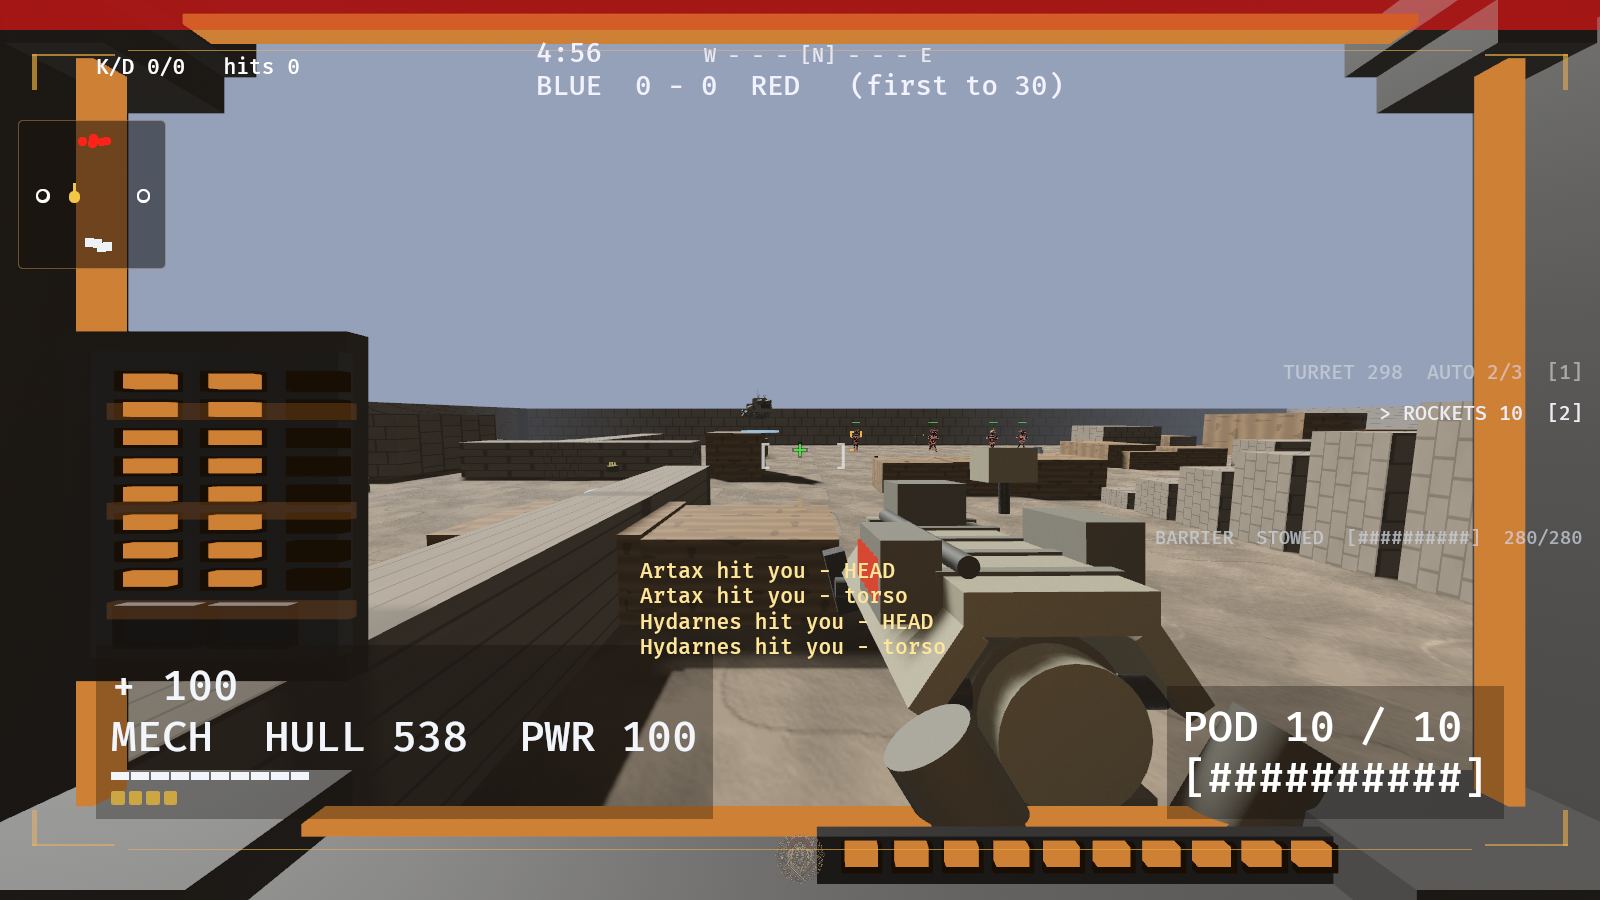
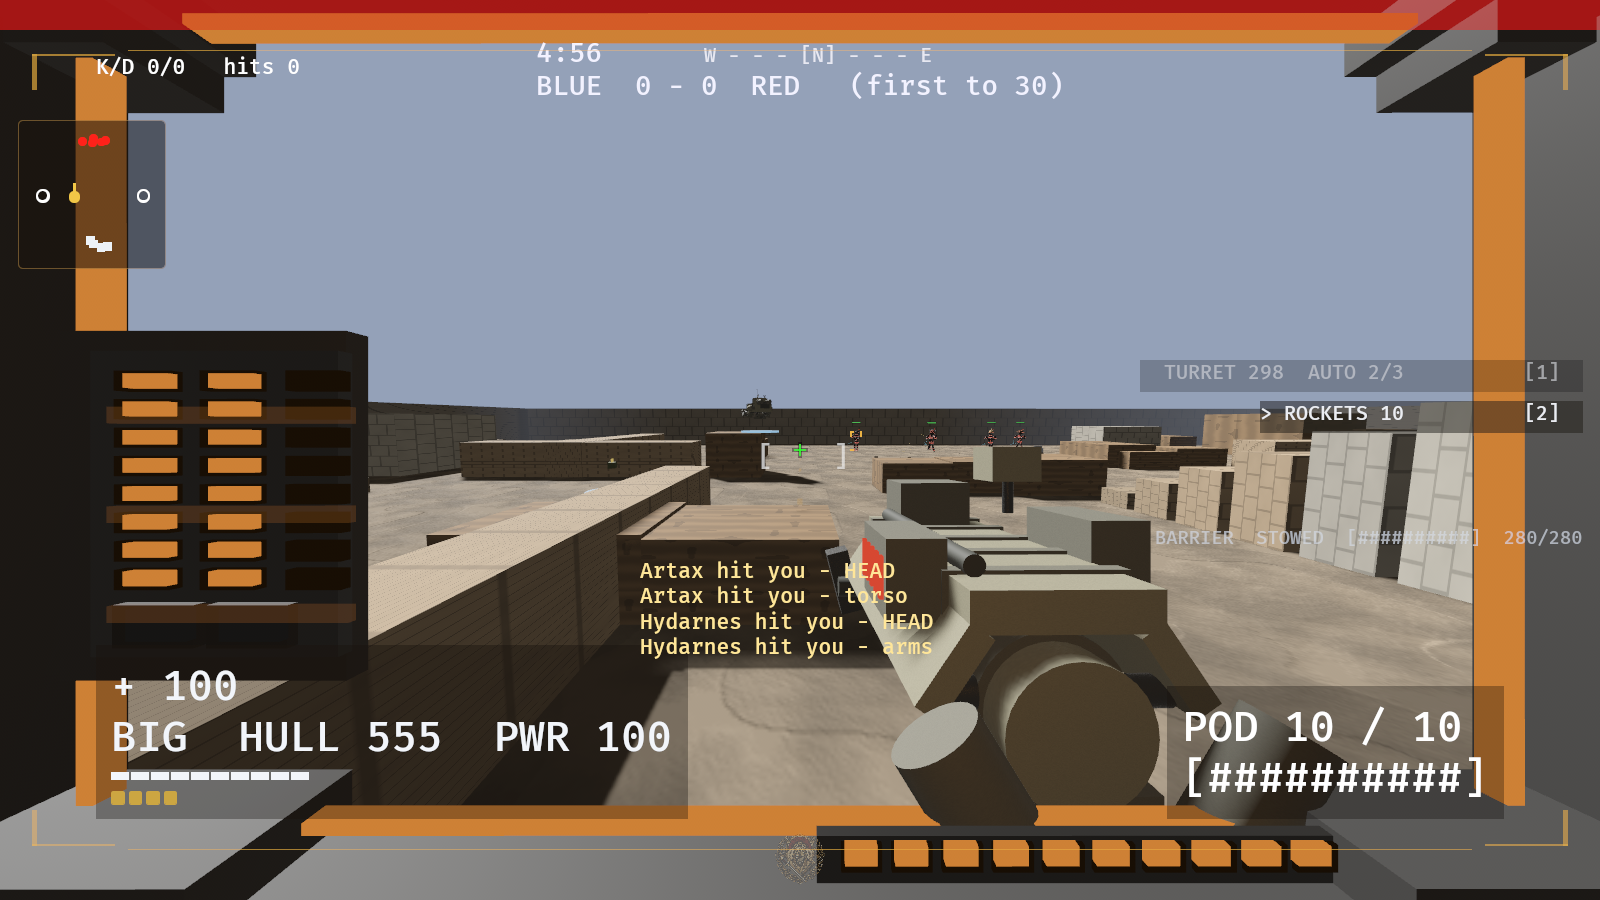
A slot is one line: the fixed-width tile was the wrong lever
Three captures to get one widget right, and the sequence is the
lesson. The slot tiles shipped at a fixed 258 px, which fitted every
infantry row and folded "[1]" onto a second line inside a mech,
because a hull mount's label carries a name, a count AND a fire mode
("TURRET 298  AUTO 2/3"). Widening to 310 moved the fold without
removing it - the tell that width was not the problem. Adding
`no_wrap` stopped the fold and started running the row off the RIGHT
edge of the screen instead, because the text lays out inside the box
and the box is pinned to the right margin.

The tile sizes to its content now. Anchored right, it grows leftward
into empty sky, and nothing can be clipped or folded whatever a future
mount decides to call itself. The infantry rows still read as a column
because the grammar pads its columns in a monospaced font.

Captured: `mech_fp` shows "> TURRET 298  AUTO 2/3 [1]" whole and on
one line, and the pilot's vitals read "BIG  HULL 600  PWR 100" - the
chassis name coming from the sim's `chassis_name()`, which is what a
Royal will say ROYAL in.

`grenade_hold` final frames: the frag whole and readable at rest with
its ribs, bands, fuse cap, spoon and pin ring; the wind at 14 m and at
MAX with the assembly in frame at both, no wedge and no clipping; the
molotov an unmistakable bottle; and the four slots reading M4A1
30/120 [1], Glock 17 17/68 [2], AWM 5/10 [3], SHIELD x1 [4].

418 passing.

diff --git a/engine/crates/jk_tdm/src/main.rs b/engine/crates/jk_tdm/src/main.rs
@@ -15535,14 +15535,34 @@ fn setup(
                 ..default()
             },
             TextColor(Color::srgba(0.92, 0.93, 0.95, 0.4)),
+            // A SLOT IS ONE LINE. Two captures went into learning that a
+            // fixed-width tile plus the default wrap is a trap: 258 px
+            // fitted every infantry row and folded "[1]" onto a second
+            // line inside a mech, because a hull mount's label carries a
+            // name, a count AND a fire mode ("TURRET 298  AUTO 2/3").
+            // Widening to 310 moved the fold and did not remove it,
+            // which is the tell that width was the wrong lever.
+            //
+            // ...and no fixed width either, which was the third attempt
+            // and the one the capture finally liked. With `no_wrap` and
+            // a fixed box the mech row stopped folding and started
+            // running off the RIGHT edge of the screen instead - the
+            // text is laid out inside the box and overruns forwards,
+            // and the box is pinned to the right margin.
+            //
+            // So the tile SIZES TO ITS CONTENT. Anchored right, it grows
+            // leftward into empty sky and nothing can ever be clipped or
+            // folded. The infantry rows still line up as a column
+            // because the row grammar pads its columns in a monospaced
+            // font - `{:<9}` and `{:>7}` make every rifle row the same
+            // number of characters, and therefore the same width - and
+            // only the two mech rows sit proud, which is honest: they
+            // are saying more.
+            TextLayout::new_with_no_wrap(),
             Node {
                 position_type: PositionType::Absolute,
                 right: Val::Px(14.0),
                 top: Val::Percent(40.0 + slot as f32 * 4.6),
-                // wide enough for the longest row the grammar can
-                // produce - "> MECHANICAL 240/720  [1]" - so the four
-                // tiles are a column and not a ragged stack
-                width: Val::Px(258.0),
                 padding: UiRect::axes(Val::Px(9.0), Val::Px(3.0)),
                 border: UiRect::all(Val::Px(1.0)),
                 ..default()
